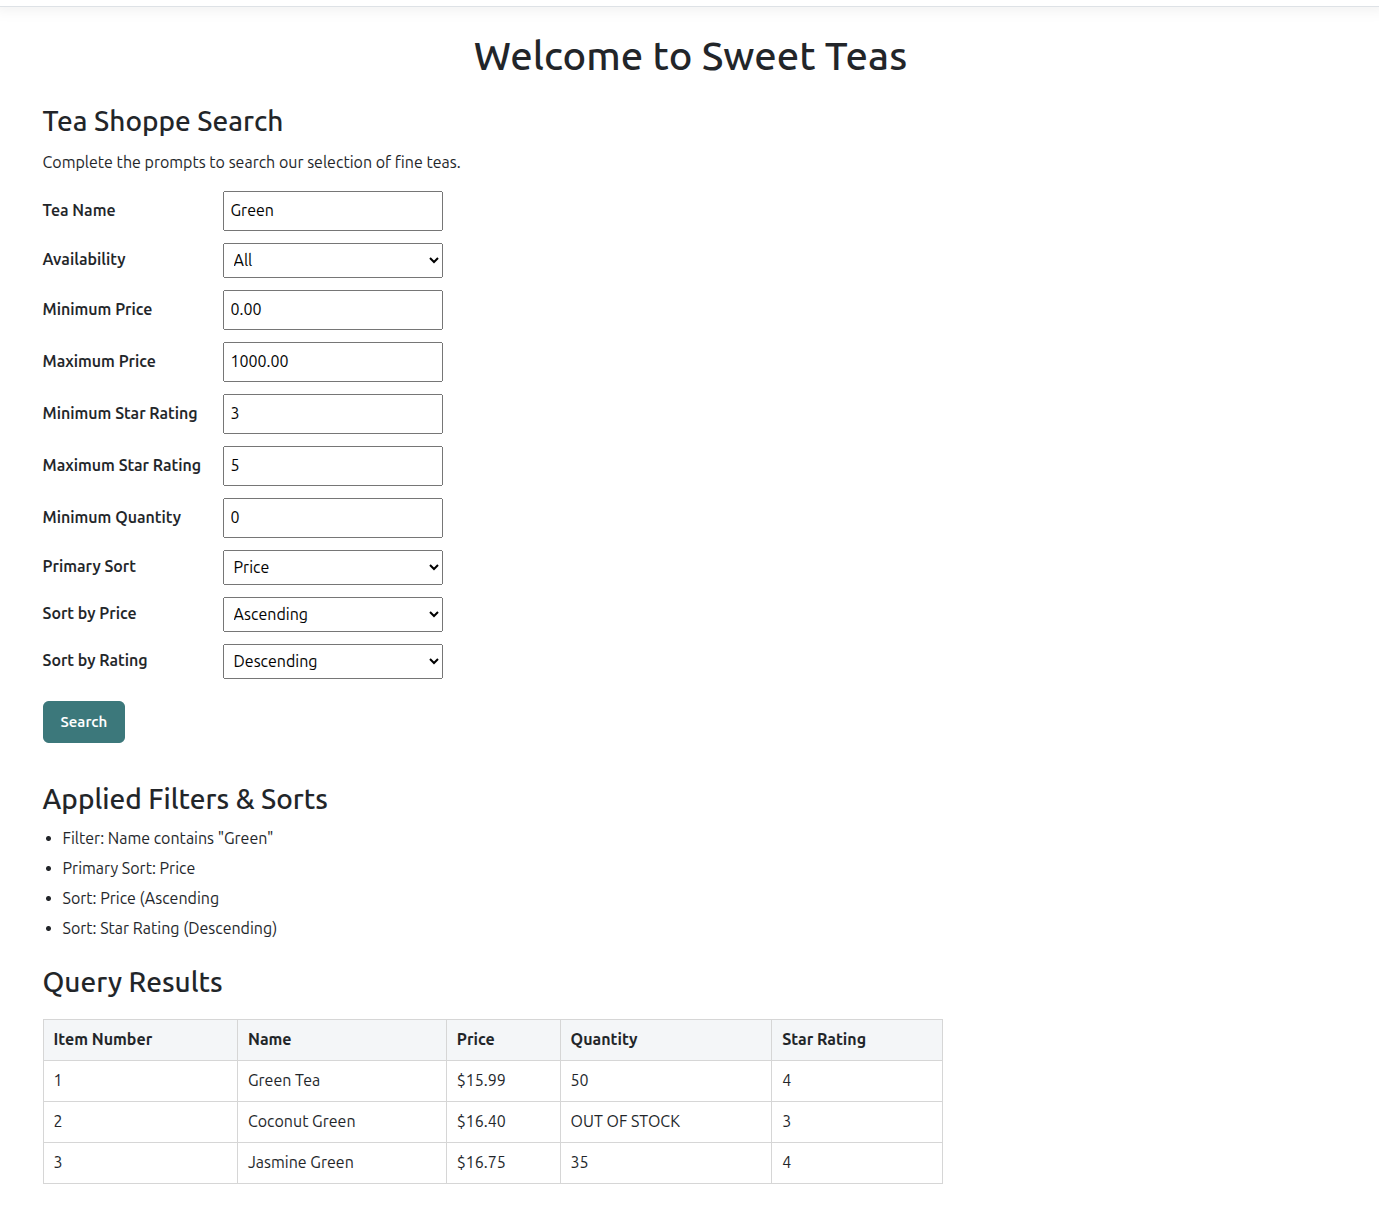
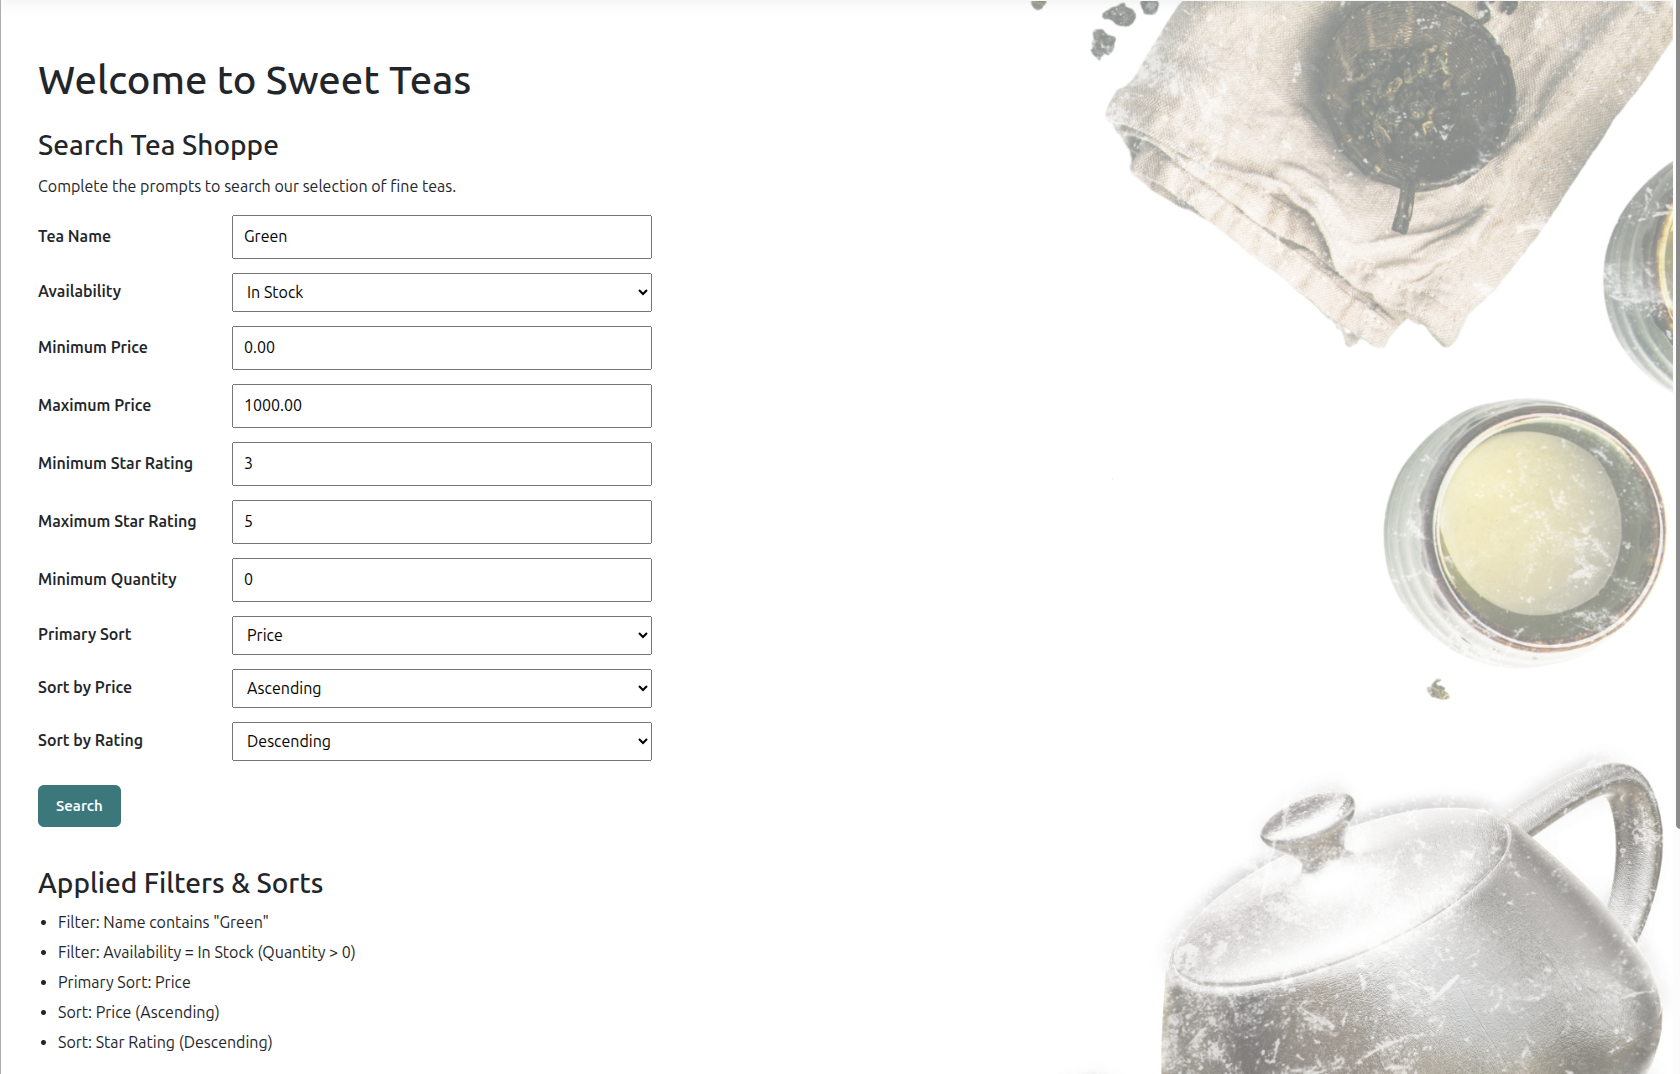
Revised screenshots + receipt page background.

diff --git a/tea-shoppe-web/README.md b/tea-shoppe-web/README.md
@@ -44,7 +44,7 @@ docker run --rm -p 8080:8080 tea-shoppe-web
   ```bash
   Ctrl + C
     ```
-## 3. Screenshot
+## 3. Screenshots
 ![TeaShoppe.Web](Screenshot1.png)
 ![TeaShoppe.Web](Screenshot2.png)
 ![TeaShoppe.Web](Screenshot3.png)
